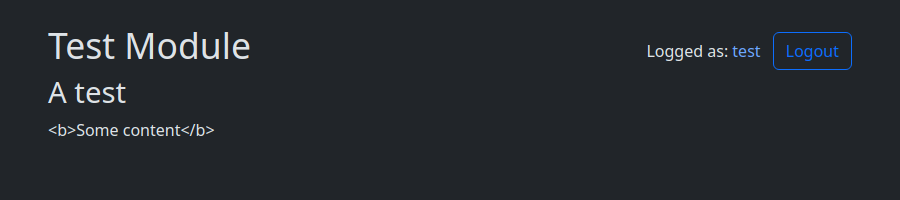
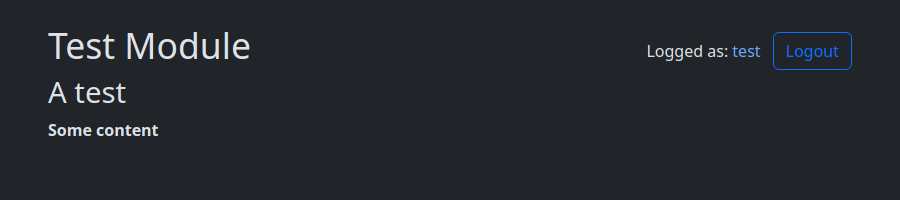
Add more acceptance tests

Changed region(s): [[0.0311, 0.6, 0.2489, 0.69]]

diff --git a/github_app_geo_project/templates/project.html b/github_app_geo_project/templates/project.html
@@ -155,23 +155,28 @@
           >
             %if job[7]:
             <!---->
-            duration:&nbsp;${job[7] - job[5]|pprint_duration}
-            <!---->
-            %else:
-            <!---->
-            %if job[5]:
-            <!---->
-            started:&nbsp;${job[5]|pprint_date}
-            <!---->
-            %else:
-            <!---->
-            created:&nbsp;${job[4]|pprint_date}
-            <!---->
-            %endif
-            <!---->
-            %endif
-            <!----></a
+            duration:&nbsp;${job[7] - job[5]|pprint_duration}</a
           >${',' if job[7] else ''}
+          <!---->
+          %else:
+          <!---->
+          %if job[5]:
+          <!---->
+          started:&nbsp;${job[5]|pprint_date}
+          <!---->
+          %else:
+          <!---->
+          created:&nbsp;${job[4]|pprint_date}
+          <!---->
+          %endif
+          <!-- for Prettier -->
+          %if False:
+          <a>
+            <!---->
+            %endif
+            <!---->
+          </a>
+          %endif
           <!---->
           %if job[8]:
           <a href="${request.route_url('logs', id=job[0])}">Logs</a>

diff --git a/github_app_geo_project/module/tests/dashboard.html b/github_app_geo_project/module/tests/dashboard.html
@@ -1,2 +1,2 @@
 <h2>A test</h2>
-<p>${content}</p>
+<p>${content|n}</p>

diff --git a/github_app_geo_project/scripts/process_queue.py b/github_app_geo_project/scripts/process_queue.py
@@ -46,6 +46,8 @@ class _Formatter(logging.Formatter):
 
 
 def _validate_job(config: dict[str, Any], application: str, event_data: dict[str, Any]) -> bool:
+    if "TEST_APPLICATION" in os.environ:
+        return True
     github_application = configuration.get_github_application(config, application)
     github_app = github_application.integration.get_app()
     installation_id = event_data.get("installation", {}).get("id", 0)
@@ -73,22 +75,25 @@ def _process_job(
         _LOGGER.error("Unknown module %s", module_name)
         return False
 
-    github_application = configuration.get_github_application(config, application)
-    github_project = configuration.get_github_project(config, github_application, owner, repository)
-
     issue_data = ""
-    if current_module.required_issue_dashboard():
-        repository_full = f"{owner}/{repository}"
-        repo = github_project.github.get_repo(repository_full)
-        dashboard_issue = _get_dashboard_issue(github_application, repo)
-        if dashboard_issue:
-            issue_full_data = dashboard_issue.body
-            issue_data = utils.get_dashboard_issue_module(issue_full_data, module_name)
+    module_config: project_configuration.ModuleConfiguration = {}
+    github_project = cast(configuration.GithubProject, None)
+    if "TEST_APPLICATION" not in os.environ:
+        github_application = configuration.get_github_application(config, application)
+        github_project = configuration.get_github_project(config, github_application, owner, repository)
 
-    module_config = cast(
-        project_configuration.ModuleConfiguration,
-        configuration.get_configuration(config, owner, repository, application).get(module_name, {}),
-    )
+        if current_module.required_issue_dashboard():
+            repository_full = f"{owner}/{repository}"
+            repo = github_project.github.get_repo(repository_full)
+            dashboard_issue = _get_dashboard_issue(github_application, repo)
+            if dashboard_issue:
+                issue_full_data = dashboard_issue.body
+                issue_data = utils.get_dashboard_issue_module(issue_full_data, module_name)
+
+        module_config = cast(
+            project_configuration.ModuleConfiguration,
+            configuration.get_configuration(config, owner, repository, application).get(module_name, {}),
+        )
     if module_config.get("enabled", project_configuration.MODULE_ENABLED_DEFAULT):
         module_status = (
             session.query(models.ModuleStatus)
@@ -220,12 +225,11 @@ def _process_event(
     for application in config["applications"].split():
         _LOGGER.info("Process the event: %s, application: %s", event_data.get("name"), application)
 
-        github_application = configuration.get_github_application(config, application)
         if "TEST_APPLICATION" in os.environ:
             webhook.process_event(
                 webhook.ProcessContext(
-                    owner=None,  # type: ignore[arg-type]
-                    repository=None,  # type: ignore[arg-type]
+                    owner="camptocamp",
+                    repository="test",
                     config=config,
                     application=os.environ["TEST_APPLICATION"],
                     event_name="event",
@@ -234,6 +238,7 @@ def _process_event(
                 )
             )
         else:
+            github_application = configuration.get_github_application(config, application)
             for installation in github_application.integration.get_installations():
                 for repo in installation.get_repos():
                     webhook.process_event(
@@ -336,6 +341,8 @@ def main() -> None:
     """Process the jobs present in the database queue."""
     parser = argparse.ArgumentParser(description=__doc__)
     parser.add_argument("--exit-when-empty", action="store_true", help="Exit when the queue is empty")
+    parser.add_argument("--only-one", action="store_true", help="Exit after processing one job")
+    parser.add_argument("--make-pending", action="store_true", help="Make one job in pending")
     c2cwsgiutils.setup_process.fill_arguments(parser)
     args = parser.parse_args()
 
@@ -382,6 +389,9 @@ def main() -> None:
             job.status = models.JobStatus.PENDING
             job.started_at = datetime.now()
             session.commit()
+            if args.make_pending:
+                _LOGGER.info("Make job %s pending", args.make_pending)
+                break
 
             _LOGGER.info(
                 "Start process job '%s' id: %s, on %s/%s on module: %s, on application %s.",
@@ -480,6 +490,8 @@ def main() -> None:
                     session.commit()
             finally:
                 root_logger.removeHandler(handler)
+        if args.only_one:
+            break
 
 
 if __name__ == "__main__":

diff --git a/github_app_geo_project/module/tests/__init__.py b/github_app_geo_project/module/tests/__init__.py
@@ -1,12 +1,17 @@
+import logging
+import os
 from typing import Any
+
+import yaml
 
 from github_app_geo_project import models, module
 from github_app_geo_project.module import utils
 
-ConfigType = dict[str, Any]
+_LOGGER = logging.getLogger(__name__)
+_ConfigType = dict[str, Any]
 
 
-class TestModule(module.Module[ConfigType]):
+class TestModule(module.Module[_ConfigType]):
     def title(self) -> str:
         """Get the title of the module."""
         return "Test Module"
@@ -27,9 +32,12 @@ class TestModule(module.Module[ConfigType]):
         Note that this function is called in the web server Pod who has low resources, and this call should be fast
         """
         del context
-        return [module.Action(priority=module.PRIORITY_STATUS, data={})]
+        return [
+            module.Action(priority=module.PRIORITY_STATUS, data={"error": False}),
+            module.Action(priority=module.PRIORITY_STATUS, data={"error": True}),
+        ]
 
-    def process(self, context: module.ProcessContext[ConfigType]) -> module.ProcessOutput | None:
+    def process(self, context: module.ProcessContext[_ConfigType]) -> module.ProcessOutput | None:
         """
         Process the action.
 
@@ -37,9 +45,34 @@ class TestModule(module.Module[ConfigType]):
 
         :return: The status of the process to be stored in the dashboard issue
         """
-        utils.add_output(context, "Test", ["Test 1", {"title": "Test 2", "children": ["Test 3", "Test 4"]}])
-        utils.add_output(context, "Test", ["Test error"], status=models.OutputStatus.ERROR)
-        return None
+        result = {}
+        try:
+            if os.path.exists("/tmp/test-result.yaml"):
+                with open("/tmp/test-result.yaml", encoding="utf-8") as file:
+                    result = yaml.load(file, Loader=yaml.SafeLoader)
+            if context.module_data.get("error", False):
+                result["error-job-id"] = context.job_id
+                _LOGGER.debug("Debug")
+                _LOGGER.info("Info")
+                _LOGGER.warning("Warning")
+                _LOGGER.error("Error")
+                _LOGGER.critical("Critical")
+                with open("/tmp/test-result.yaml", "w", encoding="utf-8") as file:
+                    yaml.dump(result, file)
+                raise Exception("Exception")  # pylint: disable=broad-exception-raised
+            result["success-job-id"] = context.job_id
+            result["output-multi-line-id"] = utils.add_output(
+                context, "Test", ["Test 1", {"title": "Test 2", "children": ["Test 3", "Test 4"]}]
+            )
+            result["output-error-id"] = utils.add_output(
+                context, "Test", ["Test error"], status=models.OutputStatus.ERROR
+            )
+            with open("/tmp/test-result.yaml", "w", encoding="utf-8") as file:
+                yaml.dump(result, file)
+            return None
+        finally:
+            with open("/results/test-result.yaml", "w", encoding="utf-8") as file:
+                file.write(yaml.dump(result))
 
     def get_json_schema(self) -> dict[str, Any]:
         """Get the JSON schema of the module configuration."""

diff --git a/acceptance_tests/acceptance_test.py b/acceptance_tests/acceptance_test.py
@@ -3,7 +3,9 @@
 import os
 
 import c2cwsgiutils.acceptance.image
+import pytest
 import requests
+import yaml
 
 
 def test_ok() -> None:
@@ -76,8 +78,8 @@ def test_project() -> None:
         media=[
             {"name": "prefers-color-scheme", "value": "dark"},
         ],
-        width=900,
-        height=500,
+        width=1000,
+        height=700,
         result_folder="/results",
         expected_filename=os.path.join(os.path.dirname(__file__), "project.expected.png"),
         sleep=500,
@@ -110,5 +112,43 @@ def test_transversal_dashboard() -> None:
         height=200,
         result_folder="/results",
         expected_filename=os.path.join(os.path.dirname(__file__), "dashboard.expected.png"),
+        sleep=500,
+    )
+
+
+@pytest.mark.parametrize("log_type", ["success", "error"])
+def test_logs(log_type: str) -> None:
+    """Tests the logs page."""
+    with open("/results/test-result.yaml", encoding="utf-8") as file:  # nosec
+        result = yaml.load(file, Loader=yaml.SafeLoader)
+
+    c2cwsgiutils.acceptance.image.check_screenshot(
+        f"http://application:8080/logs/{result[f'{log_type}-job-id']}",
+        media=[
+            {"name": "prefers-color-scheme", "value": "dark"},
+        ],
+        width=900,
+        height=500,
+        result_folder="/results",
+        expected_filename=os.path.join(os.path.dirname(__file__), f"logs-{log_type}.expected.png"),
+        sleep=500,
+    )
+
+
+@pytest.mark.parametrize("output_type", ["multi-line", "error"])
+def test_output(output_type: str) -> None:
+    """Tests the output page."""
+    with open("/results/test-result.yaml", encoding="utf-8") as file:  # nosec
+        result = yaml.load(file, Loader=yaml.SafeLoader)
+
+    c2cwsgiutils.acceptance.image.check_screenshot(
+        f"http://application:8080/output/{result[f'output-{output_type}-id']}",
+        media=[
+            {"name": "prefers-color-scheme", "value": "dark"},
+        ],
+        width=900,
+        height=200,
+        result_folder="/results",
+        expected_filename=os.path.join(os.path.dirname(__file__), f"output-{output_type}.expected.png"),
         sleep=500,
     )

diff --git a/github_app_geo_project/module/utils.py b/github_app_geo_project/module/utils.py
@@ -19,18 +19,19 @@ def add_output(
     data: list[str | models.OutputData],
     status: models.OutputStatus = models.OutputStatus.SUCCESS,
     access_type: models.AccessType = models.AccessType.PULL,
-) -> None:
+) -> int:
     """Add an output to the database."""
-    context.session.add(
-        models.Output(
-            title=title,
-            status=status,
-            owner=context.github_project.owner,
-            repository=context.github_project.repository,
-            access_type=access_type,
-            data=data,
-        )
+    output = models.Output(
+        title=title,
+        status=status,
+        owner=context.github_project.owner if context.github_project else "camptocamp",
+        repository=context.github_project.repository if context.github_project else "test",
+        access_type=access_type,
+        data=data,
     )
+    context.session.add(output)
+    context.session.commit()
+    return output.id
 
 
 class DashboardIssueItem:
@@ -198,7 +199,7 @@ class HtmlMessage(Message):
                 "attributes": html_sanitizer.sanitizer.DEFAULT_SETTINGS["attributes"] | {"span": ("style",)},
             }
         )
-        html = cast(str, sanitizer_instance.sanitize(self.html))
+        html = cast(str, sanitizer_instance.sanitize(self.html.replace(" ", "&nbsp;")))
         if self.title:
             html = "\n".join([f"<h3>{self.title}</h3>", html])
         return html

diff --git a/github_app_geo_project/module/audit/__init__.py b/github_app_geo_project/module/audit/__init__.py
@@ -11,6 +11,7 @@ from typing import Any, cast
 
 import c2cciutils.security
 import github
+import markdown
 import yaml
 
 from github_app_geo_project import module
@@ -89,7 +90,9 @@ def _get_process_output(
 
     module_status = context.transversal_status
     if issue_data:
-        module_status[f"{context.github_project.owner}/{context.github_project.repository}"] = issue_data
+        module_status[f"{context.github_project.owner}/{context.github_project.repository}"] = {
+            k: [markdown.markdown(v) for v in vl] for k, vl in issue_data.items()
+        }
     else:
         if f"{context.github_project.owner}/{context.github_project.repository}" in module_status:
             del module_status[f"{context.github_project.owner}/{context.github_project.repository}"]
@@ -287,7 +290,7 @@ def _process_snyk_dpkg(
 
     service_url = context.service_url
     service_url = service_url if service_url.endswith("/") else service_url + "/"
-    service_url = urllib.parse.urljoin(service_url, "logs")
+    service_url = urllib.parse.urljoin(service_url, "logs/")
     service_url = urllib.parse.urljoin(service_url, str(context.job_id))
     issue_data[key] = [f"[Logs]({service_url})", "", *issue_data[key]]
 

diff --git a/github_app_geo_project/module/__init__.py b/github_app_geo_project/module/__init__.py
@@ -4,7 +4,6 @@ from abc import abstractmethod
 from collections.abc import Mapping
 from typing import Any, Generic, Literal, NamedTuple, NotRequired, TypedDict, TypeVar
 
-import pyramid.request
 from sqlalchemy.orm import Session
 
 from github_app_geo_project import configuration
